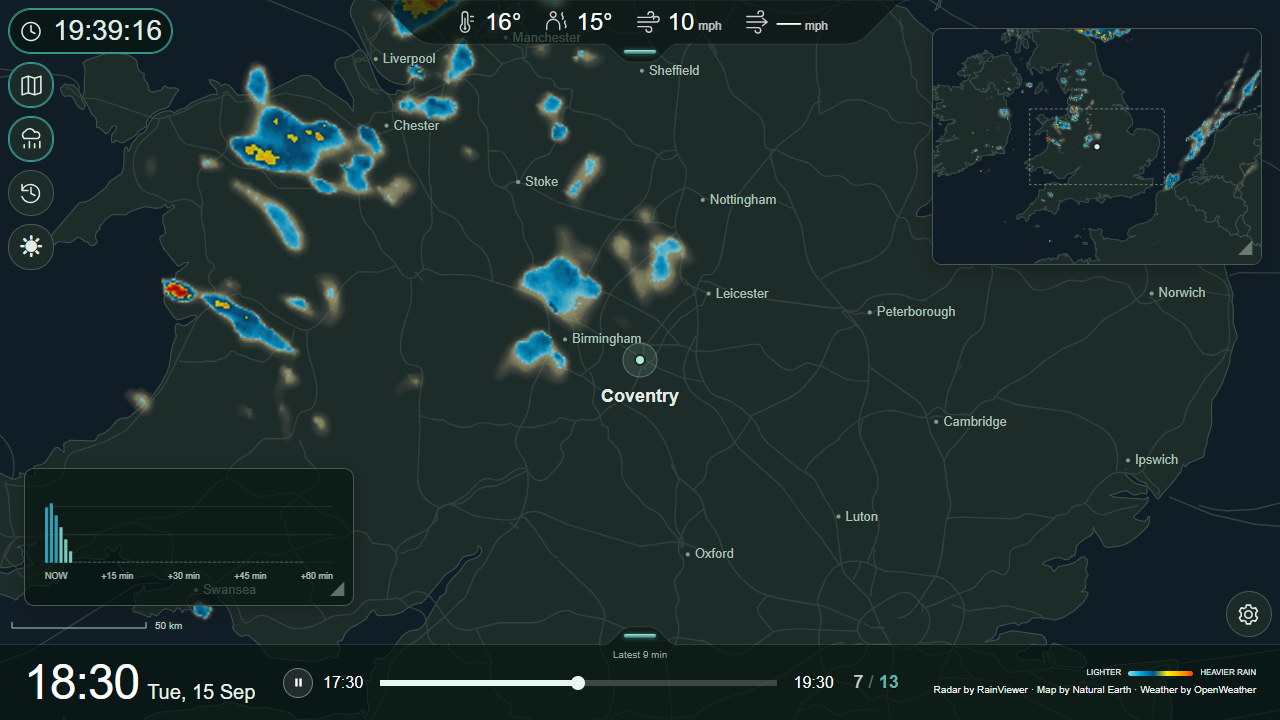
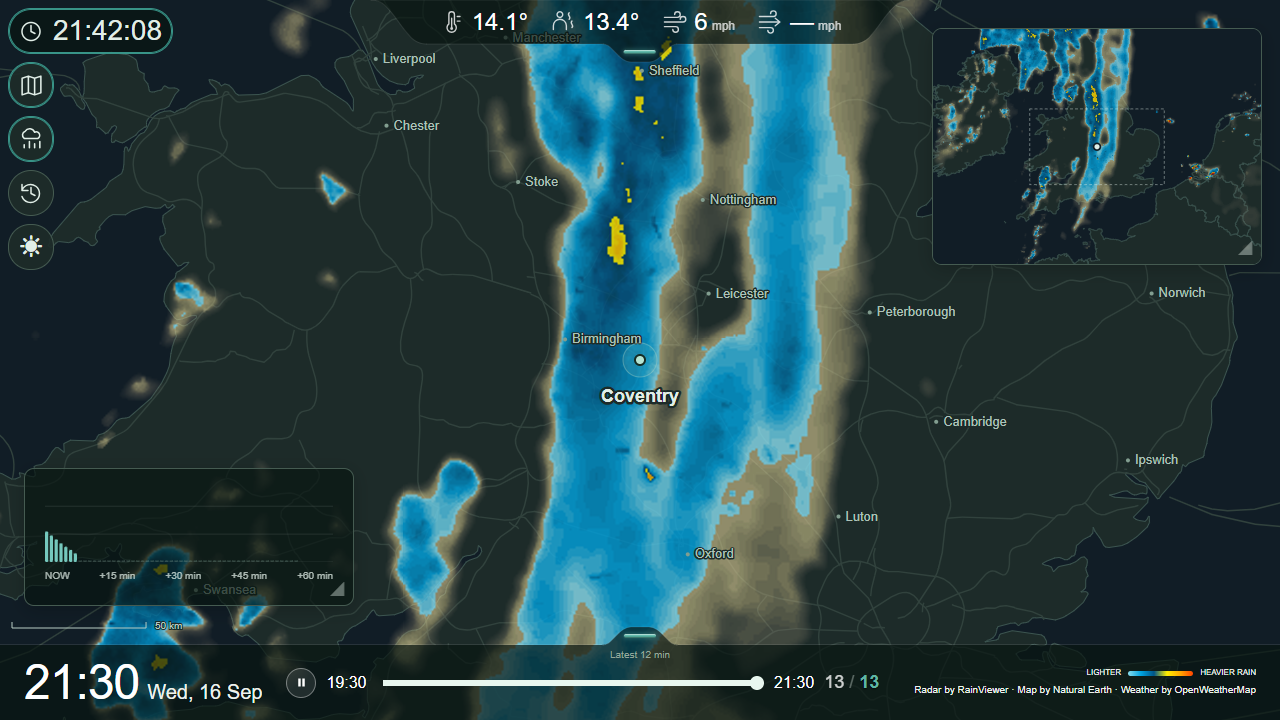
Refresh README radar animation with current rain and advancing clock

diff --git a/README.md b/README.md
@@ -4,7 +4,7 @@ A dedicated rain-radar screen for your home. Animate recent rain, see where it h
 
 ![Historical rain radar centred on Coventry](docs/images/radar-preview.gif)
 
-*Recorded on 15 September 2026: 13 cached radar frames over Coventry, with Overview and MinuteCast open. Historical demonstration, not live conditions; weather readings and MinuteCast reflect capture time. Radar by [RainViewer](https://www.rainviewer.com/), basemap by [Natural Earth](https://www.naturalearthdata.com/), weather by [OpenWeather](https://openweathermap.org/). [Static preview](docs/images/radar-preview.png).*
+*Recorded on 16 September 2026 in v0.3.0: 13 radar frames over Coventry, spanning 19:30–21:30 BST, with Overview and MinuteCast open. Historical demonstration, not live conditions; weather readings and MinuteCast reflect capture time. Radar by [RainViewer](https://www.rainviewer.com/), basemap by [Natural Earth](https://www.naturalearthdata.com/), weather by [OpenWeather](https://openweathermap.org/). [Static preview](docs/images/radar-preview.png).*
 
 ## Status
 

diff --git a/docs/manual.md b/docs/manual.md
@@ -117,7 +117,7 @@ The top dock sizes to the selected readings, wrapping on narrow screens. Hiding 
 
 ![Example radar display in dark mode](images/radar-preview.png)
 
-*Recorded v0.1.2 display, 15 September 2026, with Overview and MinuteCast open. Historical example, not live conditions.*
+*Recorded v0.3.0 display, 16 September 2026, with Overview and MinuteCast open. Historical example, not live conditions.*
 
 | Control | What it does |
 | --- | --- |
